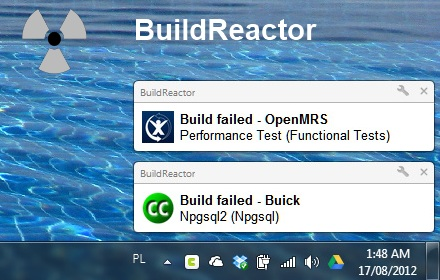
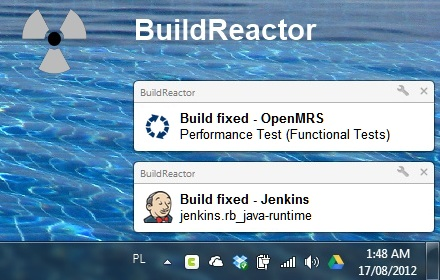
new screenshots and updated README

Changed region(s): [[0.325, 0.3714, 0.8864, 0.5143], [0.325, 0.6857, 0.7091, 0.8]]

diff --git a/src/notificationController.js b/src/notificationController.js
@@ -13,7 +13,7 @@ define([
 
 		function onBrokenBuild(buildEvent) {
 			var notificationInfo = {
-				message: interpolate('Build failed - {{0}}', [buildEvent.serviceName]),
+				message: interpolate('Build fixed - {{0}}', [buildEvent.serviceName]),
 				details: buildEvent.buildName + (buildEvent.group ? ' (' + buildEvent.group + ')' : ''),
 				url: buildEvent.url,
 				sticky: startedAll,
